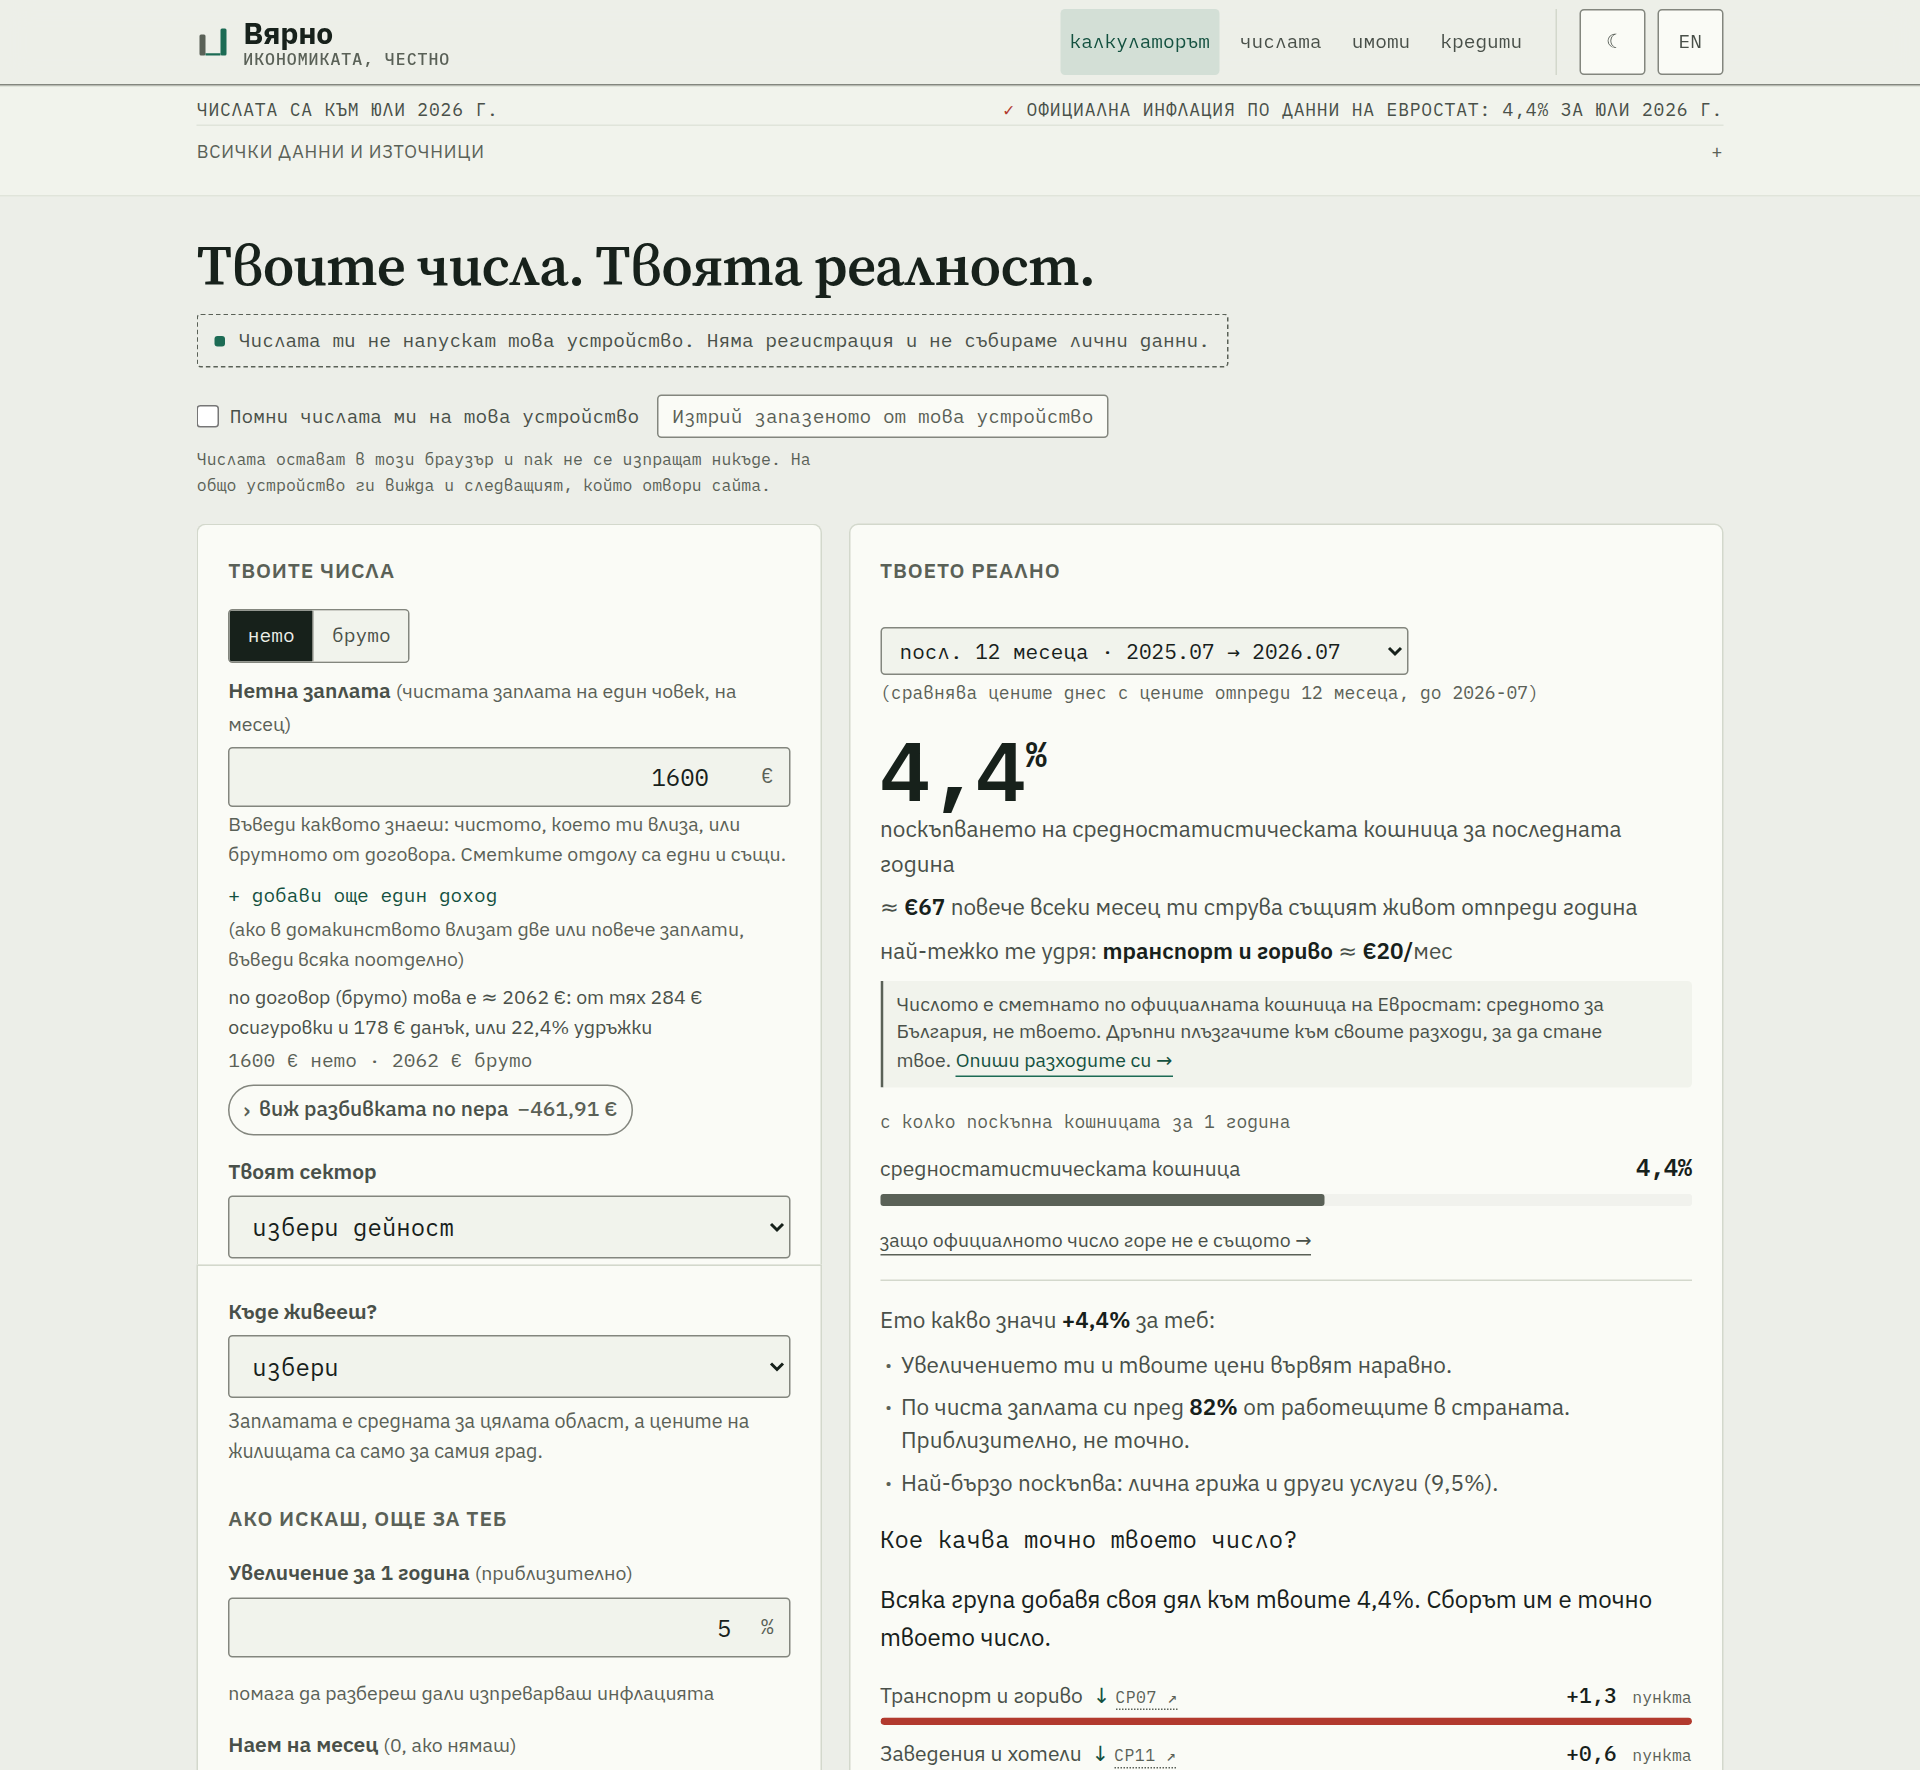
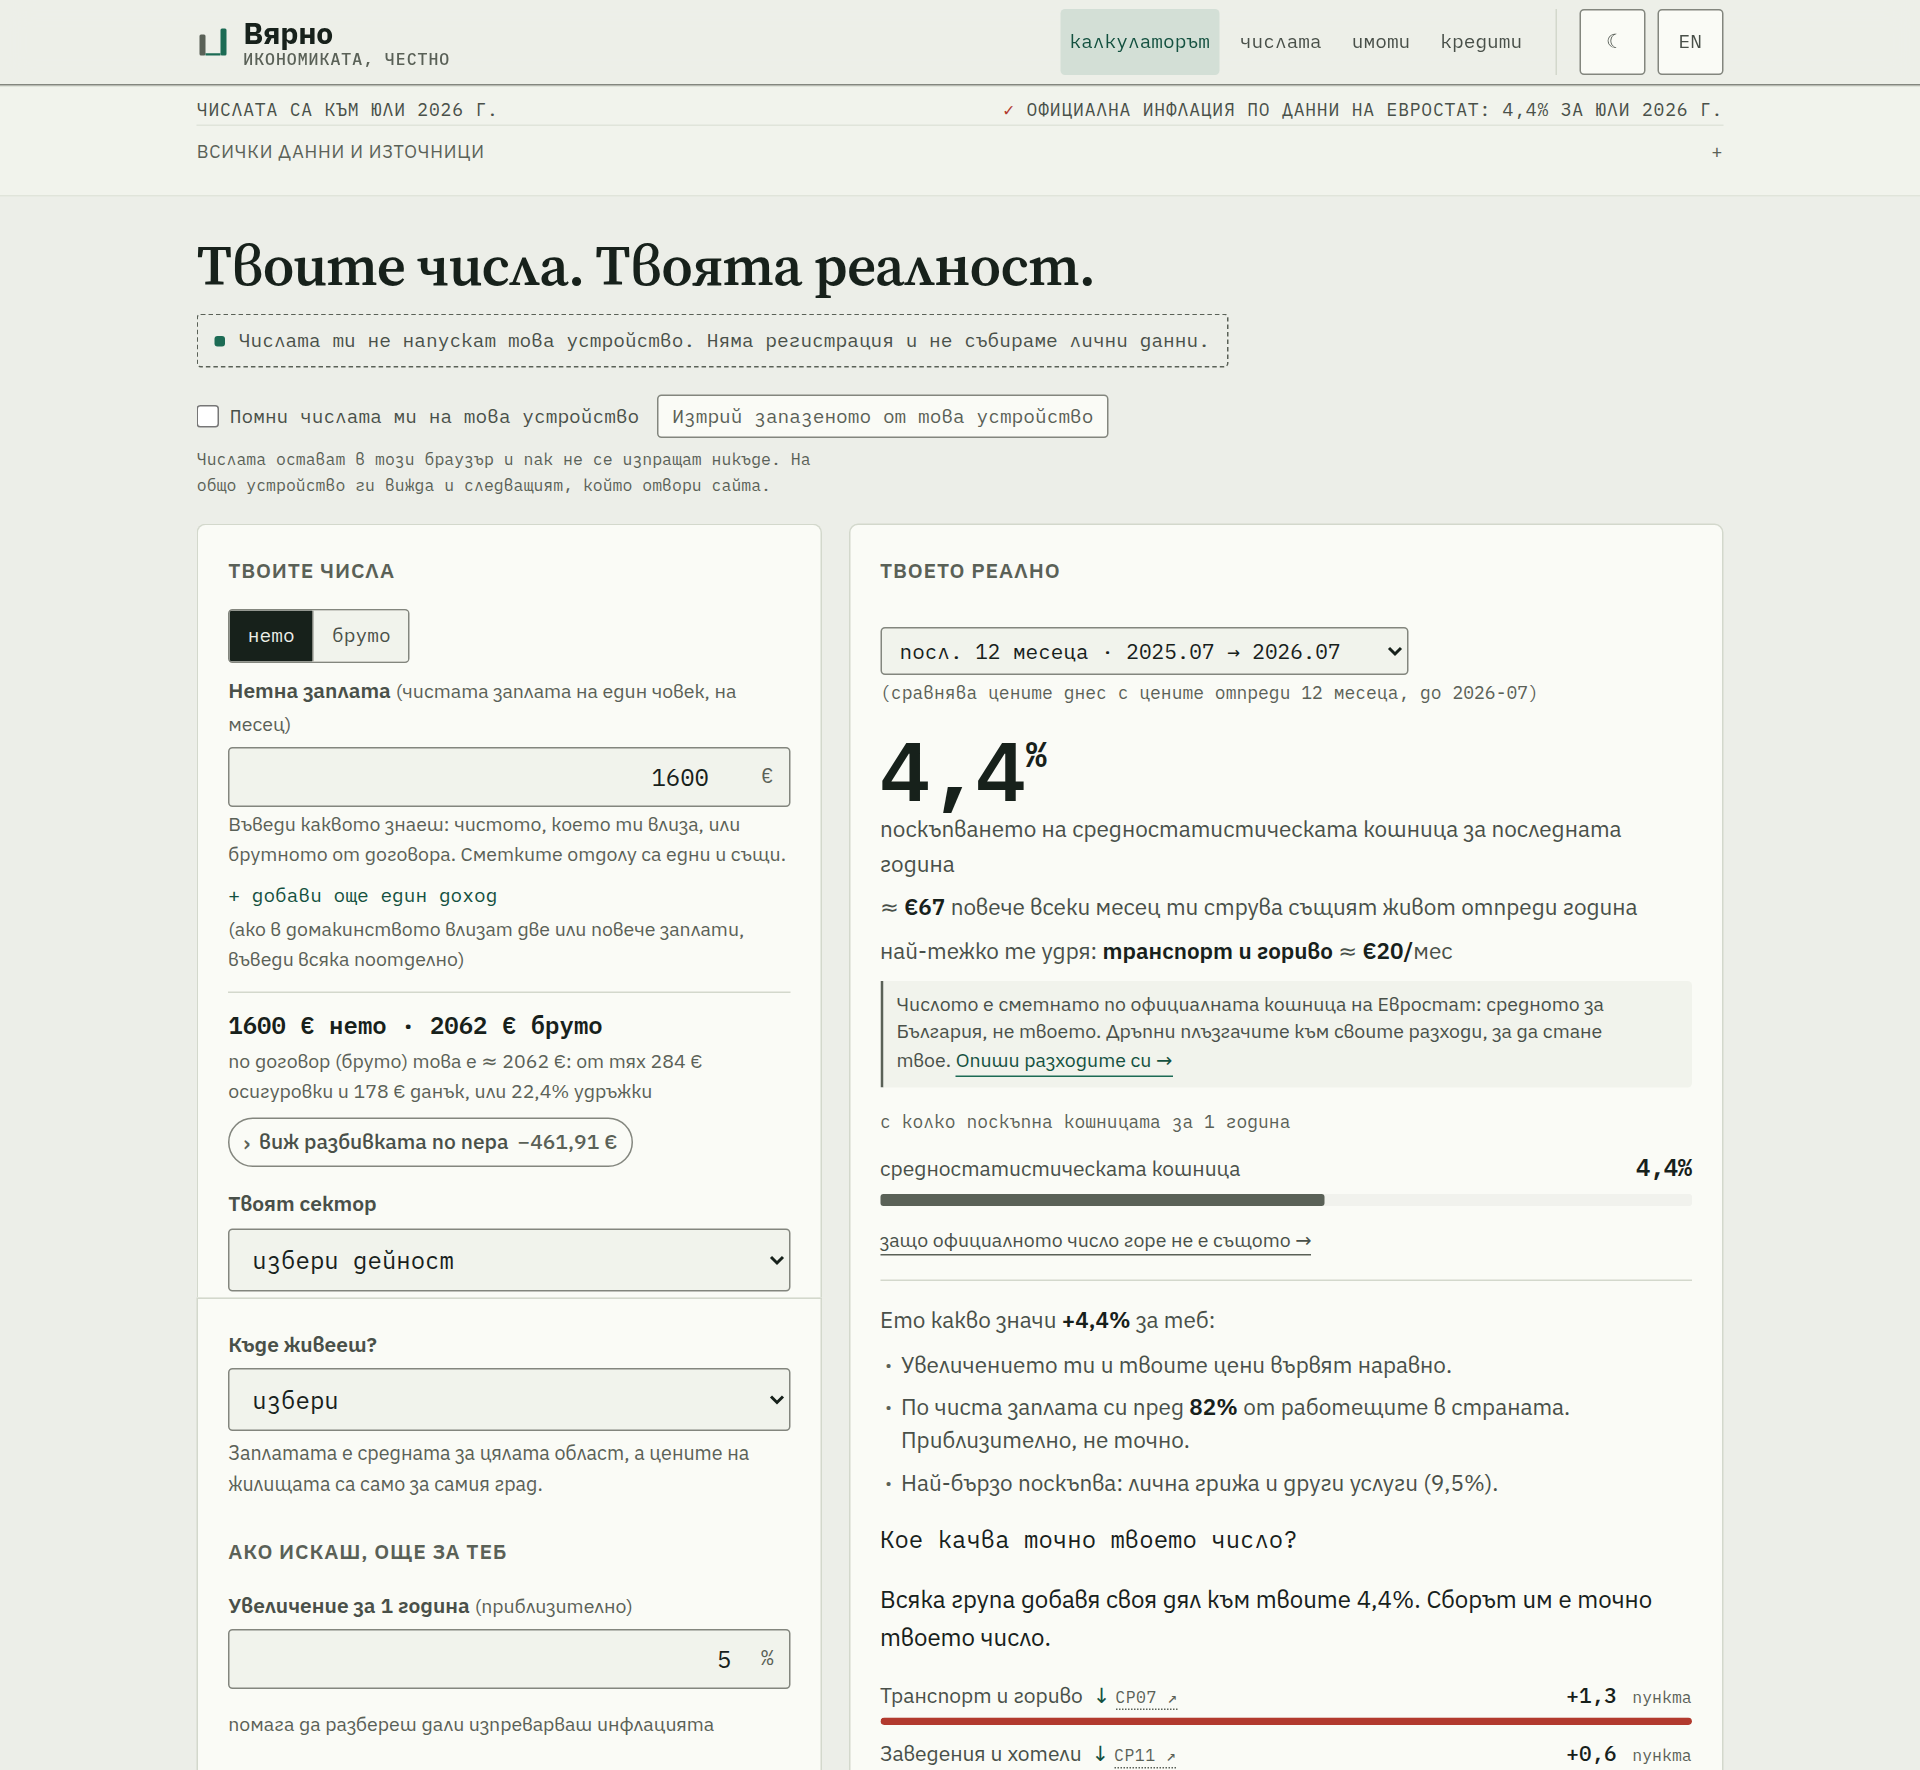
site: let the pay card's own answer outrank the hints around it
«2150 € нето · 2706 € бруто» is what the card was asked for — a gross
recovered from a typed net through that contract's insurance ceiling —
and it renders at `--muted` 13px under four hints in the same grey. A
reader scanning for their number meets five interchangeable lines with
nothing to say which of them the card produced rather than asked for.

That is the failure `.gap` names a few rules down, on this card's other
claim: a claim may not be painted like the sentences qualifying it. Same
lever, pulled the same way — `--fs-lead`, `--ink`, weight 600, and a
ledger rule separating what the reader typed from what the card worked
out. Prominence only: `--real` and `--erode` say a figure beat or lost to
a reference and a gross is not a verdict.

The pair now leads and the deductions follow, which is the order they are
wanted in: the answer, then how it was reached.

The README screenshot is re-shot in this commit because the frame carries
the pay card; `verify_render_screenshot.mjs` catches that and did.

Changed region(s): [[0.125, 0.5593, 0.4062, 0.9944]]

diff --git a/site/src/components/PayField.svelte b/site/src/components/PayField.svelte
@@ -274,26 +274,28 @@
        payslip is a document one person receives. The household line
        above them adds the columns up. -->
     {#if calc.earnersDirty && calc.payslip}
-      <div class="hint" style="margin-top:4px; color:var(--ink-2)">
-        <span class="l-bg">{t(summaryKey, "bg", summaryArgs)}</span>
-        <span class="l-en">{t(summaryKey, "en", summaryArgs)}</span>
-      </div>
-      <!-- Both readings side by side, always. The toggle changes which one the
-           reader edits, and showing only the other half leaves them working out
-           which basis the page is in from the wording of a sentence. -->
-      <div class="hint pair mono" style="margin-top:2px">
-        <span class="l-bg"
-          >{t(COPY.payBothNet, "bg", {
-            n: fmt0(calc.payslip.net),
-            g: fmt0(calc.payslip.gross),
-          })}</span
-        >
-        <span class="l-en"
-          >{t(COPY.payBothNet, "en", {
-            n: fmt0(calc.payslip.net),
-            g: fmt0(calc.payslip.gross),
-          })}</span
-        >
+      <div class="answer">
+        <!-- Both readings side by side, always. The toggle changes which one the
+             reader edits, and showing only the other half leaves them working out
+             which basis the page is in from the wording of a sentence. -->
+        <div class="pair mono">
+          <span class="l-bg"
+            >{t(COPY.payBothNet, "bg", {
+              n: fmt0(calc.payslip.net),
+              g: fmt0(calc.payslip.gross),
+            })}</span
+          >
+          <span class="l-en"
+            >{t(COPY.payBothNet, "en", {
+              n: fmt0(calc.payslip.net),
+              g: fmt0(calc.payslip.gross),
+            })}</span
+          >
+        </div>
+        <div class="hint deduct">
+          <span class="l-bg">{t(summaryKey, "bg", summaryArgs)}</span>
+          <span class="l-en">{t(summaryKey, "en", summaryArgs)}</span>
+        </div>
       </div>
       {#if calc.payslip.earners.length > 1}
         <div class="hint" style="margin-top:4px">
@@ -649,8 +651,28 @@
   .basis {
     margin-bottom: 8px;
   }
-  .hint.pair {
-    color: var(--muted);
+  /* **The ledger rule between what the reader typed and what this card worked
+     out.** Four hints in `--muted` 13px stand between the field and this
+     answer, so painted the same the reader's own gross is the fifth
+     interchangeable grey line and nothing says which of them the card produced
+     rather than asked for. The pair leads and the deductions follow it: the
+     answer, then how it was reached.
+
+     **Prominence, never a hue** — `--real` and `--erode` say a figure beat or
+     lost to a reference, and a gross is not a verdict. That is the rule at the
+     top of this component and `.gap`'s below, on the card's other claim. */
+  .answer {
+    margin-top: 10px;
+    padding-top: 9px;
+    border-top: 1px solid var(--line);
+  }
+  .pair {
+    font-size: var(--fs-lead);
+    font-weight: 600;
+    color: var(--ink);
+  }
+  .deduct {
+    margin-top: 3px;
   }
   .hint.total {
     color: var(--ink-2);
